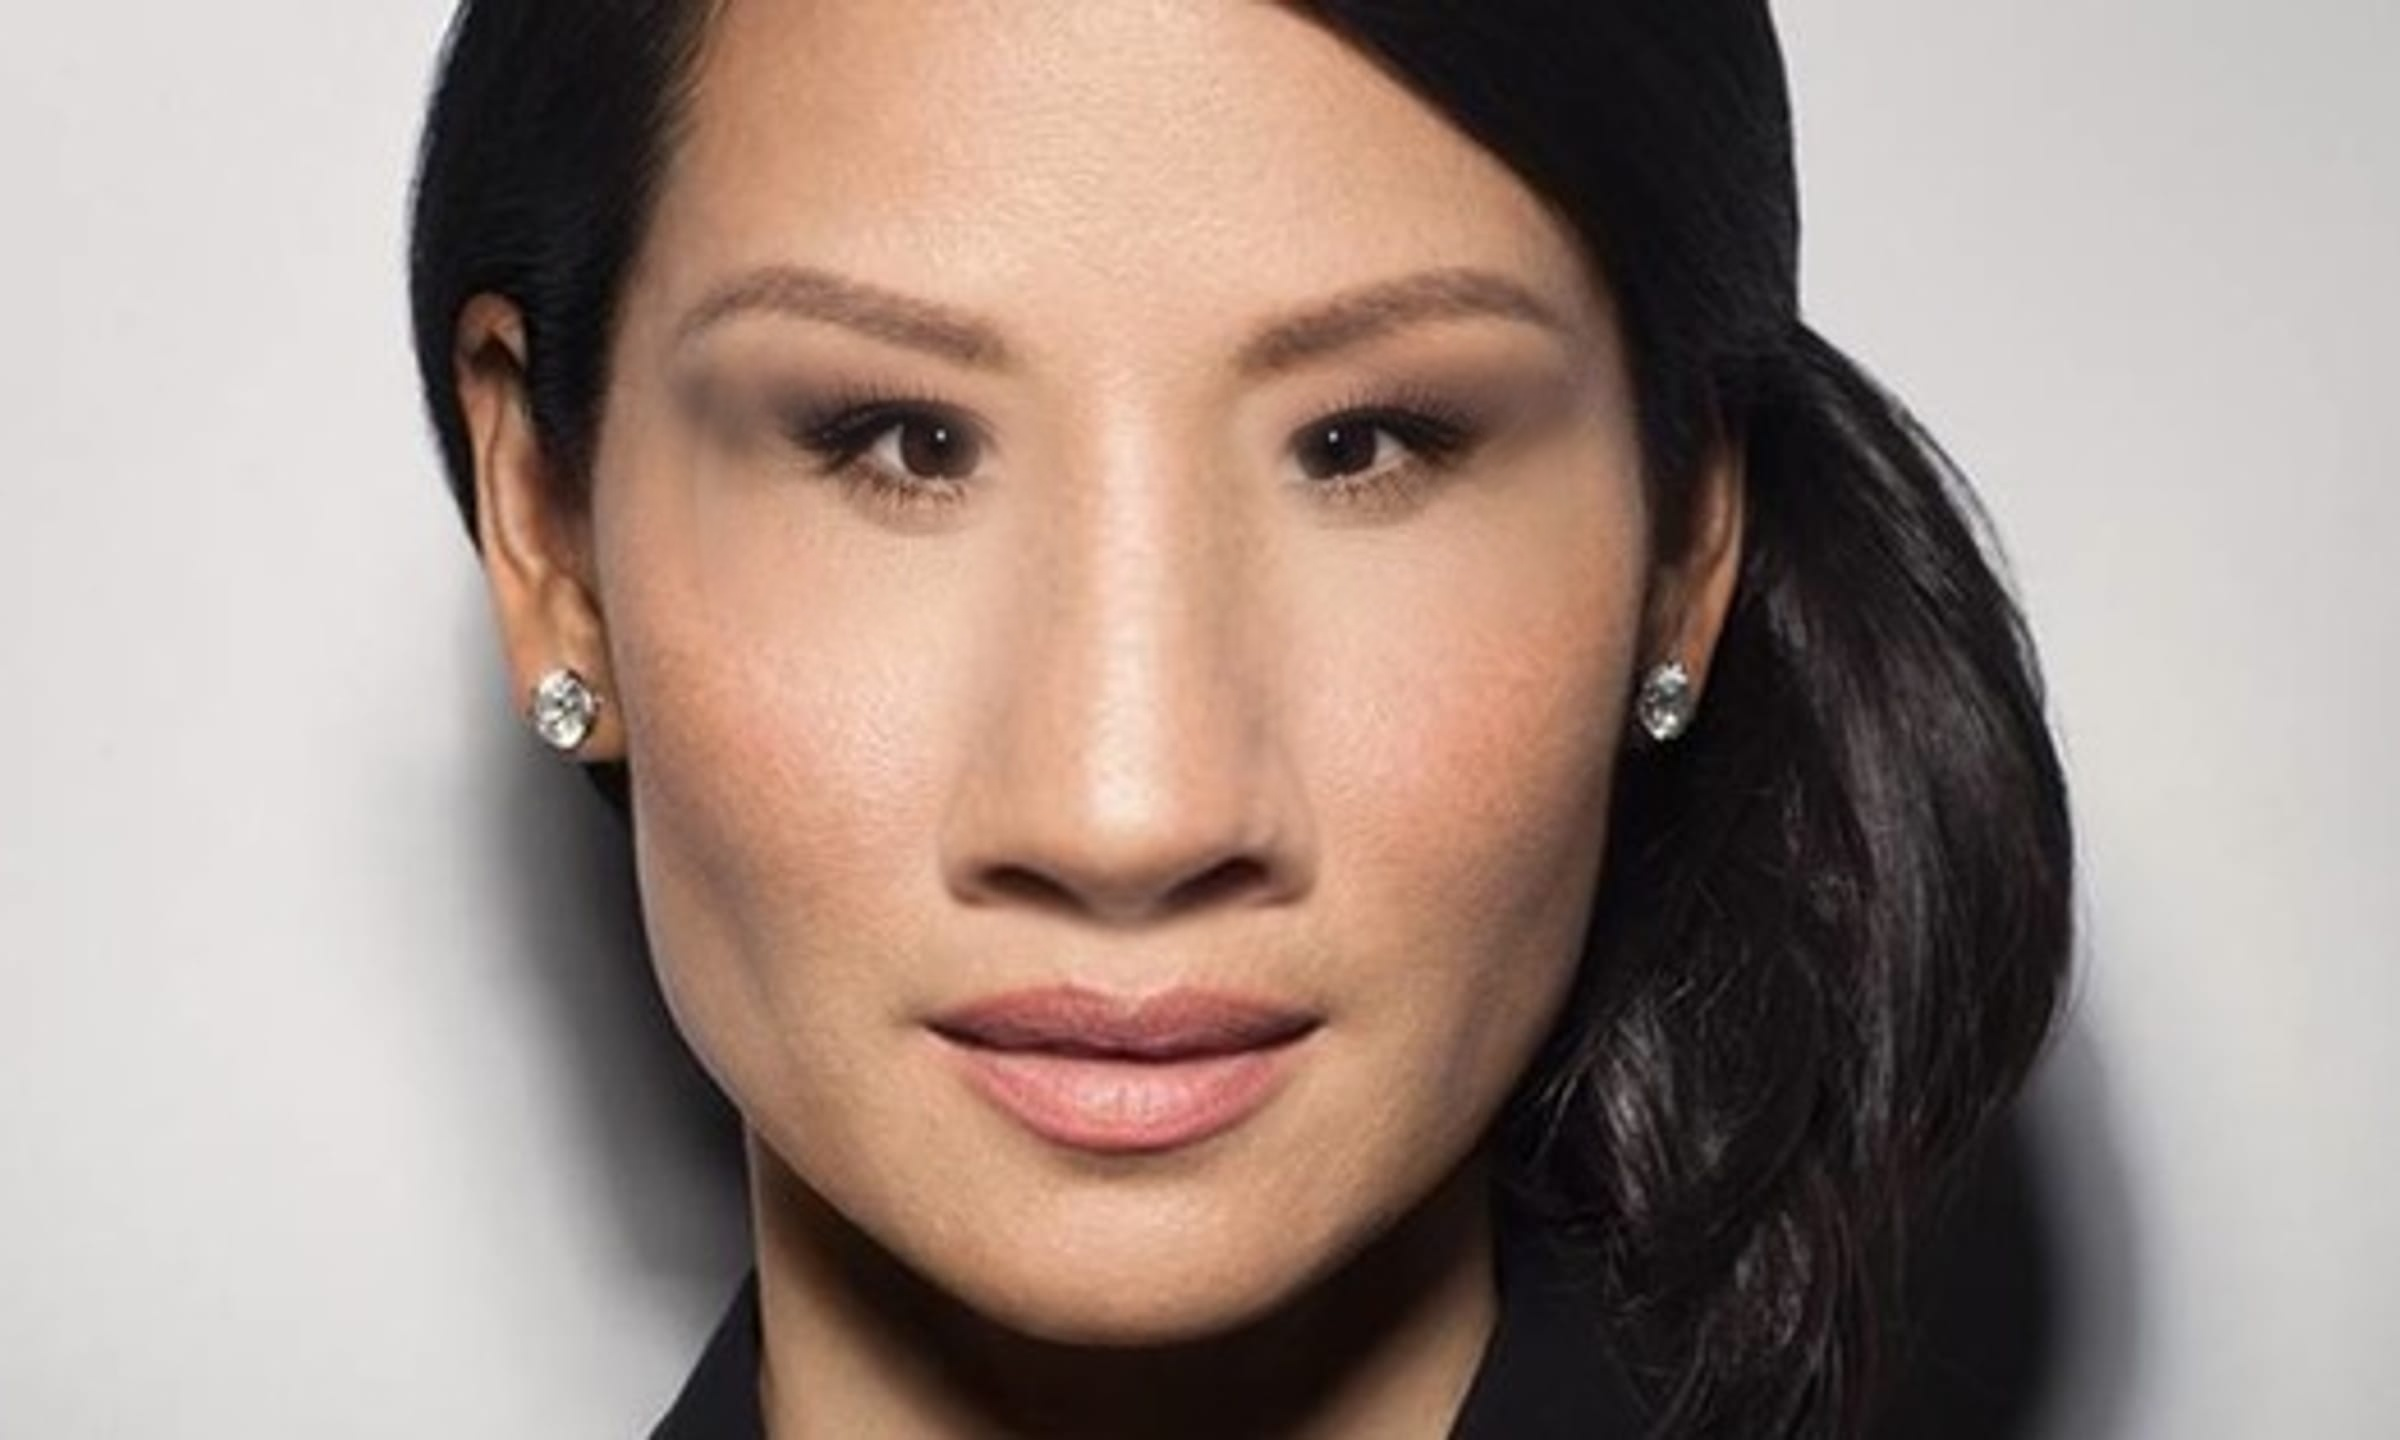
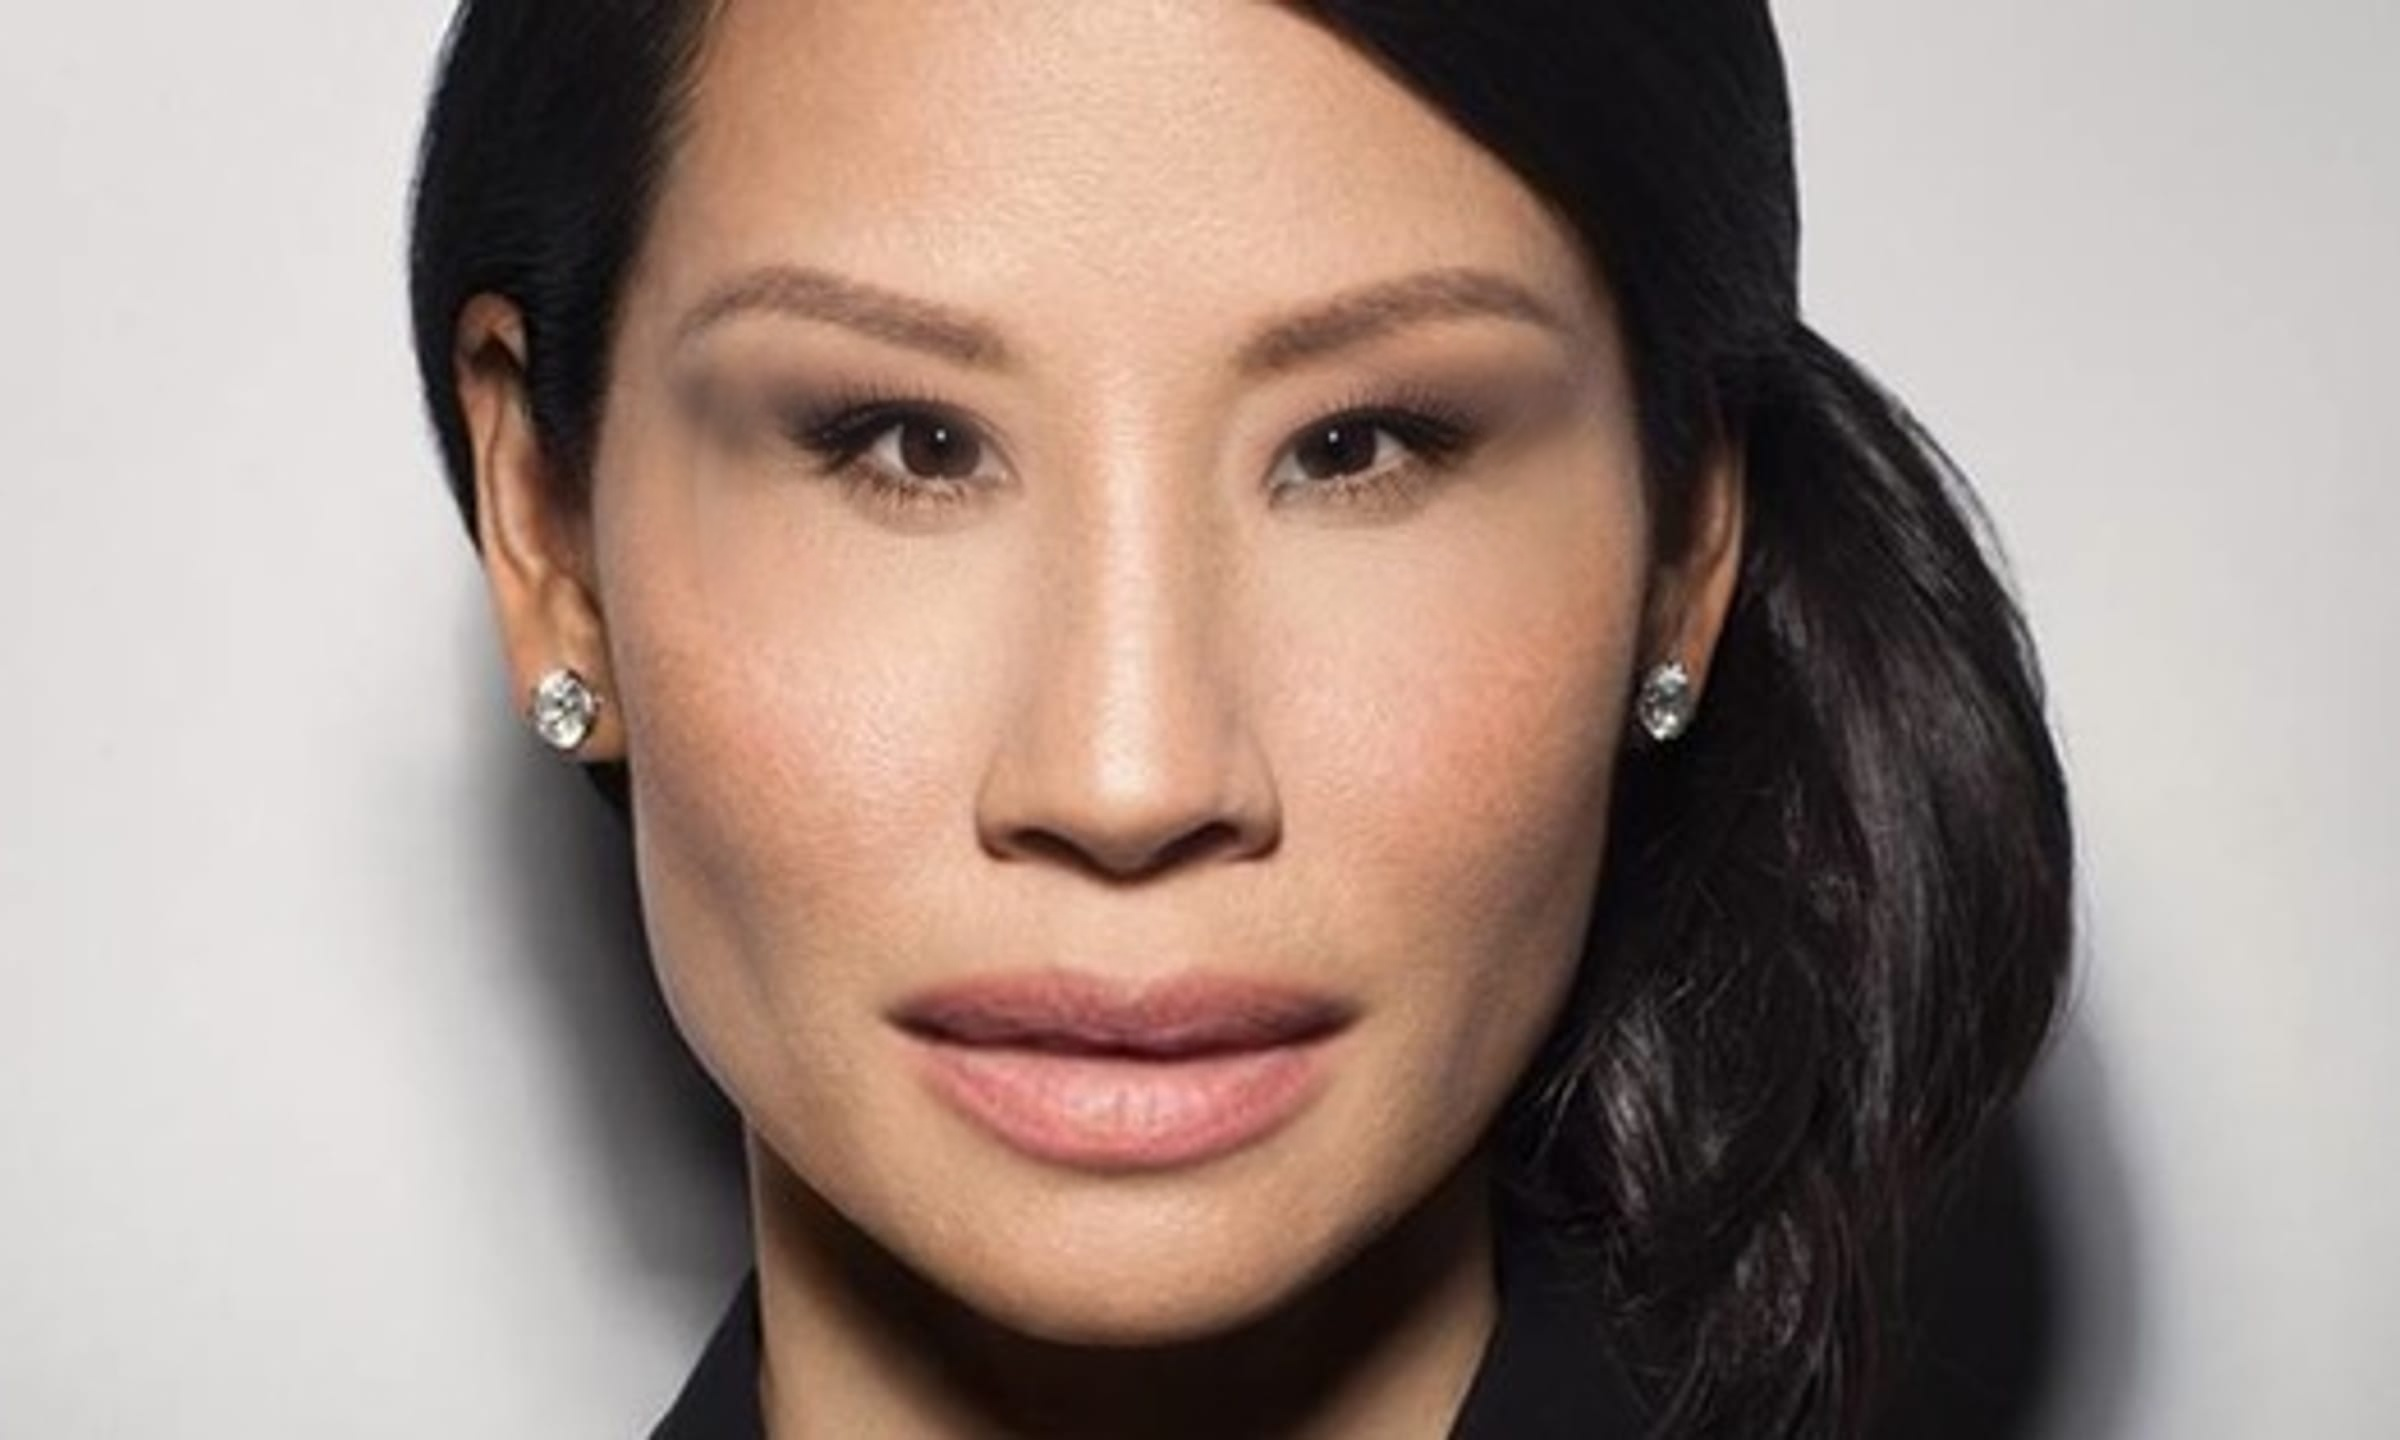
Added augmented mouth

Changed region(s): [[0.3438, 0.5312, 0.5938, 0.8125], [0.5, 0.3125, 0.5625, 0.375], [0.4062, 0.2812, 0.4375, 0.3438]]

diff --git a/augmentation/mouth.py b/augmentation/mouth.py
@@ -1,0 +1,106 @@
+# mouth.py
+
+import numpy as np
+import cv2
+import sys
+import os
+
+# Get the current directory and parent directory for importing modules
+current_directory = os.path.dirname(os.path.abspath(__file__))
+parent_directory = os.path.dirname(current_directory)
+sys.path.append(parent_directory)
+
+# Import necessary modules
+from landmarking.load import load_feature_landmarks
+from augmentation.resize_overlay import resize_and_overlay_feature
+from utils.img_utils import multi_res_blend, poisson_blend
+
+
+def resize_mouth(img, facial_features, image_id, feature_to_int, scale_factor):
+    '''
+    This function resizes the mouth in the image based on the provided scale factor.
+    It first loads the mouth landmarks from the facial features using the provided image ID.
+    Then, it resizes and overlays the mouth region on the image, adding a margin to capture the nostrils.
+    The width margin factor and height margin factor are set to 0.8 and 0.1 respectively to ensure both lips are included.
+    '''
+    # Validate input parameters
+    if img is None or img.ndim != 3 or img.shape[2] != 3:
+        raise ValueError("Input image must be a 3D array with 3 channels.")
+    if not isinstance(facial_features, np.ndarray) or facial_features.size == 0:
+        raise ValueError("Facial features data must be a non-empty numpy array.")
+    if not isinstance(scale_factor, (int, float)):
+        raise ValueError("Scale factor must be a number.")
+    if scale_factor <= 0 or scale_factor > 3:
+        raise ValueError("Scale factor must be in the range (0, 3].")
+
+    try:
+        mouth_landmarks = load_feature_landmarks(facial_features, image_id, feature_to_int, 'lips')
+        if mouth_landmarks.size == 0:
+            raise ValueError("No mouth landmarks found for the given image ID.")
+    except Exception as e:
+        raise ValueError(f"Error loading mouth landmarks: {e}")
+
+    try:
+        return resize_and_overlay_feature(img, mouth_landmarks, scale_factor, width_margin_factor=0.8, height_margin_factor=0.1)
+    except Exception as e:
+        raise ValueError(f"Error resizing and overlaying mouth feature: {e}")
+
+def create_mouth_mask(img, feature_points, width_margin_factor, height_margin_factor):
+    '''
+    This function creates a mask for the mouth based on the provided feature points.
+    The area around the mouth in the mask is white (indicating the region of interest), while the rest of the mask is black.
+    This mask can then be used in blending operations to isolate the mouth.
+    The mask is created by filling a rectangle defined by the feature points and margins with white color.
+    '''
+    # Check if img is a 3D array with 3 channels
+    if img.ndim != 3 or img.shape[2] != 3:
+        raise ValueError("Input image must be a 3D array with 3 channels.")
+    # Check if feature_points is a 2D array with 2 columns
+    if feature_points.ndim != 2 or feature_points.shape[1] != 2:
+        raise ValueError("Feature points must be a 2D array with 2 columns.")
+    # Check if width_margin_factor and height_margin_factor are numbers between 0 and 1
+    if not isinstance(width_margin_factor, (int, float)) or not isinstance(height_margin_factor, (int, float)):
+        raise ValueError("Width and height margin factors must be numbers.")
+    if not (0 <= width_margin_factor <= 1) or not (0 <= height_margin_factor <= 1):
+        raise ValueError("Width and height margin factors must be numbers between 0 and 1.")
+    # Create the mask
+    # Create an empty mask
+    mask = np.zeros_like(img)
+    # Calculate the minimum and maximum coordinates of the feature points
+    x_min, y_min = np.min(feature_points, axis=0).astype(int)
+    x_max, y_max = np.max(feature_points, axis=0).astype(int)
+    # Calculate the width and height margins
+    width_margin = int((x_max - x_min) * width_margin_factor)
+    height_margin = int((y_max - y_min) * height_margin_factor)
+    # Adjust the minimum and maximum coordinates with the margins
+    x_min = max(x_min - width_margin, 0)
+    y_min = max(y_min - height_margin, 0)
+    x_max = min(x_max + width_margin, img.shape[1])
+    y_max = min(y_max + height_margin, img.shape[0])
+    # Fill the rectangle defined by the adjusted coordinates with white color
+    mask[y_min:y_max, x_min:x_max] = 255
+    return mask
+
+def multiply_mouth_mask(mouth_mask1, mouth_mask2, img, original_img):
+    '''
+    This function applies the mouth masks and their inverses to the image and original image respectively.
+    The mouth masks are applied to the image to isolate the mouths, and the inverse masks are applied to the original image to isolate the rest of the face.
+    The four images are then added together to create the final result.
+    This allows the mouths to be highlighted in the final image, while the rest of the face is still visible.
+    '''
+    # Convert the masks to float32 and normalize them to the range [0, 1]
+    mouth_mask1 = mouth_mask1.astype(np.float32) / 255
+    mouth_mask2 = mouth_mask2.astype(np.float32) / 255
+    # Create the inverse masks
+    inverse_mouth_mask1 = 1 - mouth_mask1
+    inverse_mouth_mask2 = 1 - mouth_mask2
+    # Multiply the image and original image by the masks and inverse masks respectively
+    img1 = cv2.multiply(img, mouth_mask1[:, :, None])
+    img2 = cv2.multiply(img, mouth_mask2[:, :, None])
+    original_img1 = cv2.multiply(original_img, inverse_mouth_mask1[:, :, None])
+    original_img2 = cv2.multiply(original_img, inverse_mouth_mask2[:, :, None])
+    # Add the four images together
+    result = cv2.add(img1, original_img1)
+    result = cv2.add(result, img2)
+    result = cv2.add(result, original_img2)
+    return result

diff --git a/augmentation/augment.py b/augmentation/augment.py
@@ -12,6 +12,7 @@ sys.path.append(parent_directory)
 
 # Import necessary modules
 from augmentation.nose import resize_nose, create_nose_mask
+from augmentation.mouth import resize_mouth, create_mouth_mask
 from augmentation.eyes import create_eye_mask
 from landmarking.load import load_feature_landmarks
 from utils.file_utils import get_dir
@@ -34,6 +35,24 @@ def augment_nose(img_path, facial_features, image_id, feature_to_int, nose_scale
     nose_mask_blurred = cv2.GaussianBlur(nose_mask, (0, 0), 21)
     # Blend the original image and the image with the resized nose
     img = img * (nose_mask_blurred / 255) + original_img * (1 - (nose_mask_blurred / 255))
+    return img
+
+# Function to augment the mouth of the image
+def augment_mouth(img, img_path, facial_features, image_id, feature_to_int, mouth_scale_factor):
+    # Read the image
+    path_img = cv2.imread(img_path)
+    # Make a copy of the original image
+    original_img = path_img.copy()
+    # Resize the mouth in the image
+    img_mouth = resize_mouth(img, facial_features, image_id, feature_to_int, mouth_scale_factor)
+    # Load the mouth landmarks
+    mouth_landmarks = load_feature_landmarks(facial_features, image_id, feature_to_int, 'lips')
+    # Create a mask for the mouth
+    mouth_mask = create_mouth_mask(original_img, mouth_landmarks, width_margin_factor=0.1, height_margin_factor=0.1)
+    # Blur the mouth mask
+    mouth_mask_blurred = cv2.GaussianBlur(mouth_mask, (0, 0), 21)
+    # Blend the original image and the image with the resized mouth
+    img = img_mouth * (mouth_mask_blurred / 255) + original_img * (1 - (mouth_mask_blurred / 255))
     return img
 
 # Function to augment the eyes of the image
@@ -124,6 +143,7 @@ def augment_image():
     augmented_directory = get_dir('data/augmented_images')
     # Define scale factor for nose augmentation
     nose_scale_factor = 1.25
+    mouth_scale_factor = 1.25
 
     # Create directory for augmented images if it doesn't exist
     if not os.path.exists(augmented_directory):
@@ -139,6 +159,7 @@ def augment_image():
         image_id = image_paths.index(img_path)
         # Augment the nose of the image
         img = augment_nose(img_path, facial_features, image_id, feature_to_int, nose_scale_factor)
+        img = augment_mouth(img, img_path, facial_features, image_id, feature_to_int, mouth_scale_factor)
         # Augment the eyes of the image
         img = augment_eyes(img, facial_features, image_id, feature_to_int)
         # Define the name and path for the augmented image

diff --git a/database/database_page.py b/database/database_page.py
@@ -62,7 +62,9 @@ def delete_image_of_person():
     os.remove(f'../data/original_images/{img_name}')
     os.remove(f'../data/processed_images/Processed_{img_name}')
     os.remove(f'../data/augmented_images/augmented_{img_name}')
-    os.remove(f'../data/Snapshots/augmented_{img_name}')
+    if 'snapshot_' in img_name:
+        os.remove(f'../data/Snapshots/{img_name}')
+        os.remove(f'../database/Webcam_Snapshots/{img_name}')
 
 def get_photo_folder(type_photo):
     global small_original_list, small_processed_list, small_augmented_list
